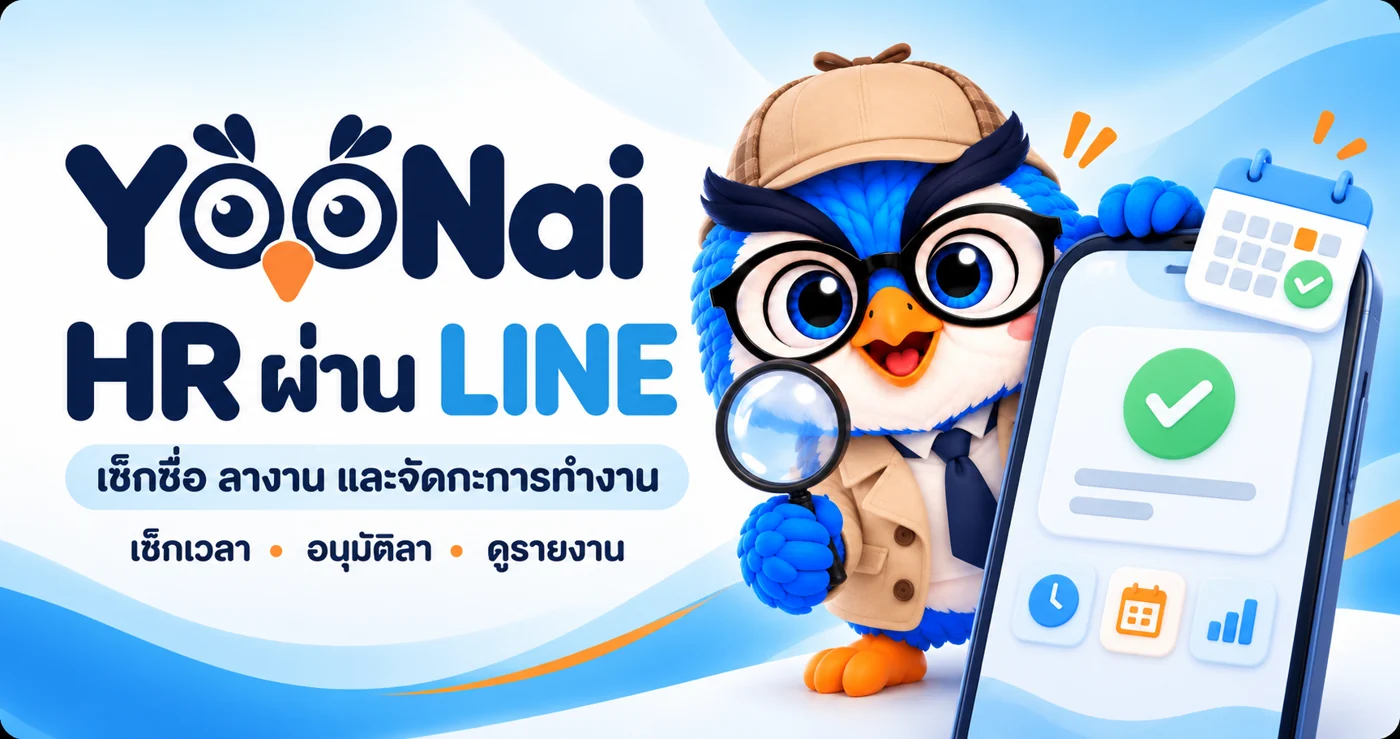
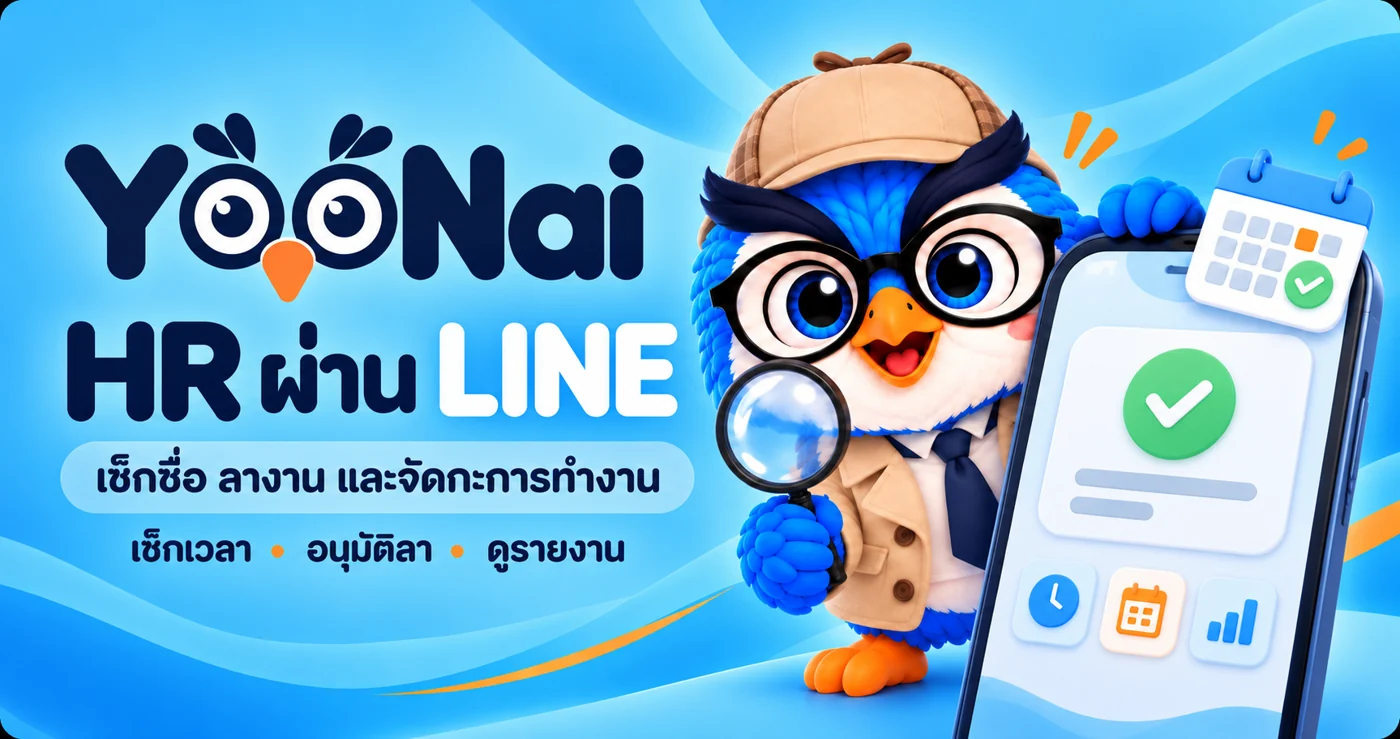
โปรแกรมสำเร็จรูป: ใส่แบนเนอร์ YooNai (พื้นฟ้า) และ WaeJer

diff --git a/src/site.ts b/src/site.ts
@@ -65,7 +65,7 @@ export interface Program { name: string; tagline: string; color: string; color2:
 export const PROGRAMS: Program[] = [
   { name: 'GrowStore', tagline: 'ระบบขายหน้าร้านสำหรับร้านปลีก (POS)', color: '#EA580C', color2: '#F5A623', logo: '/images/gen/logo-growstore.png', to: '', image: '/images/programs/growstore.webp' },
   { name: 'Yoonai', tagline: 'ระบบเช็กชื่อ ลางาน และ HR ผ่าน LINE', color: '#244B83', color2: '#2DA6DD', logo: '/images/gen/logo-yoonai.png', to: '', image: '/images/programs/yoonai.webp' },
-  { name: 'Weajer', tagline: 'ระบบบริหารงานหน่วยรถและติดตาม GPS', color: '#0E7C70', color2: '#3DBE8F', logo: '/images/gen/logo-weajer.png', to: '' },
+  { name: 'Weajer', tagline: 'ระบบบริหารงานหน่วยรถและติดตาม GPS', color: '#0E7C70', color2: '#3DBE8F', logo: '/images/gen/logo-weajer.png', to: '', image: '/images/programs/weajer.webp' },
   { name: 'SyncZag', tagline: 'ระบบบริหารโปรเจกต์ งาน และเอกสารทีม', color: '#D93A22', color2: '#FF6A3D', logo: '/images/gen/logo-synczag.png', to: '' },
 ]
 
